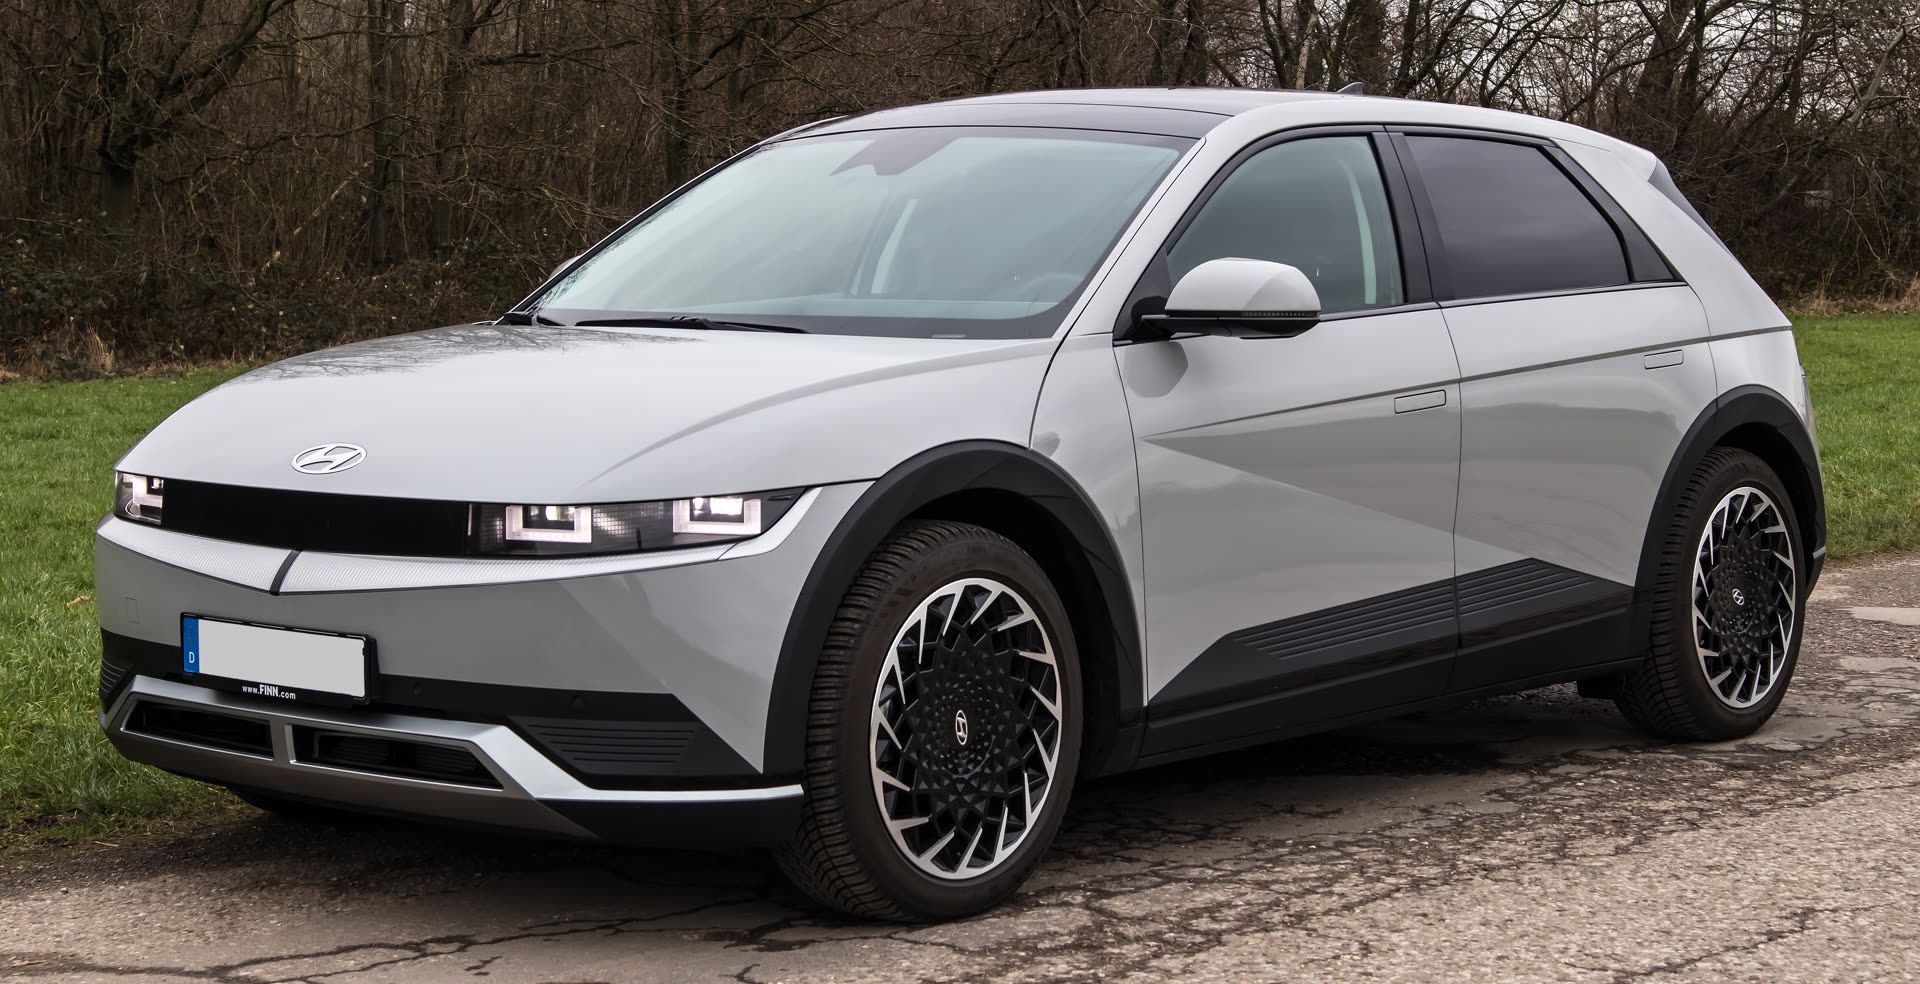
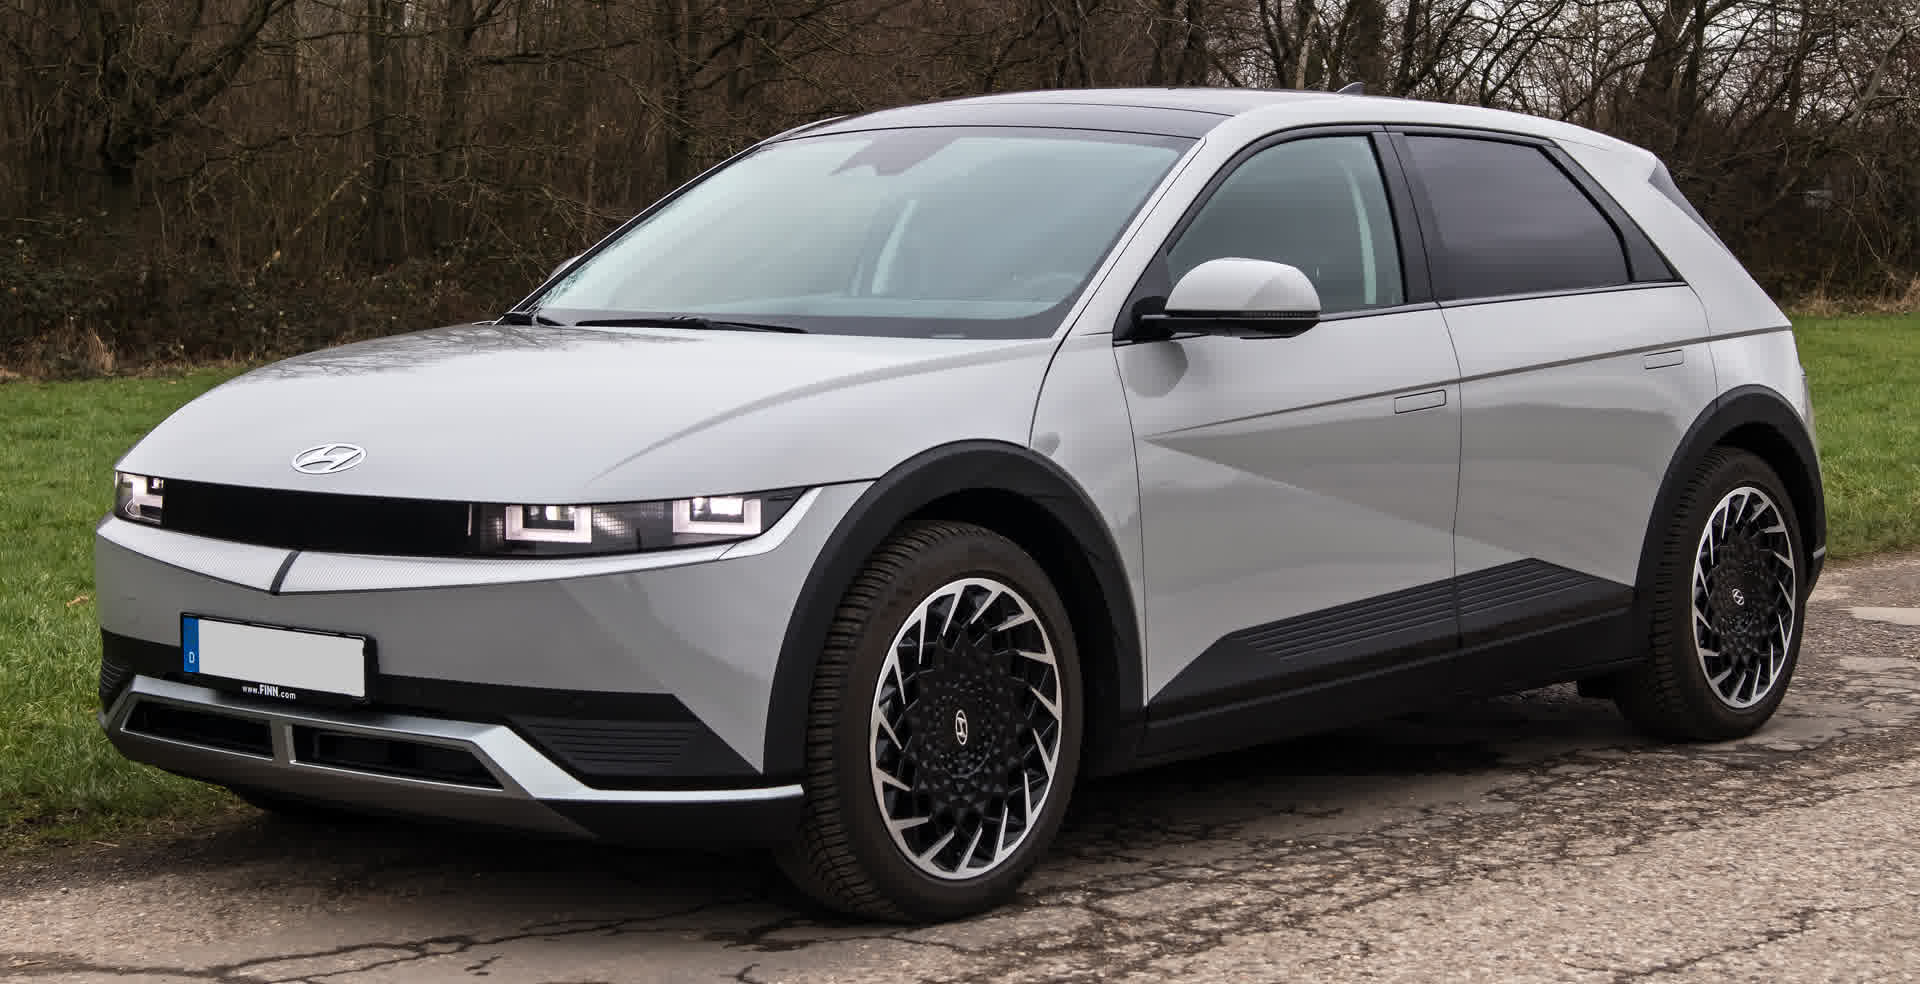
perf: compress images

Changed region(s): [[0.7188, 0.0, 1.0, 0.122]]

diff --git a/index.html b/index.html
@@ -1980,7 +1980,7 @@
                             <div><img src="image/pelindoapi.png" alt="Pelindo API" class="img-fluid mb-2"></div>
                         </div>
                         <div class="swiper-slide">
-                            <div><img src="image/jsmg.png" alt="Kementerian PUPR" class="img-fluid mb-2"></div>
+                            <div><img src="image/jsmg.jpg" alt="Kementerian PUPR" class="img-fluid mb-2"></div>
                         </div>
                         <div class="swiper-slide">
                             <div><img src="image/JNK.png" alt="PT Wijaya Karya" class="img-fluid mb-2"></div>